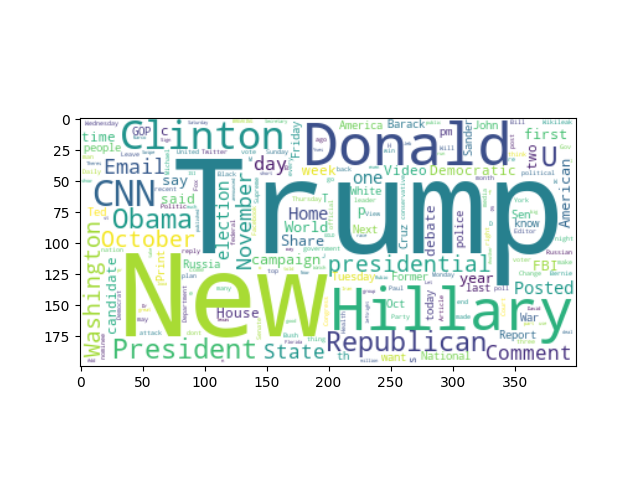
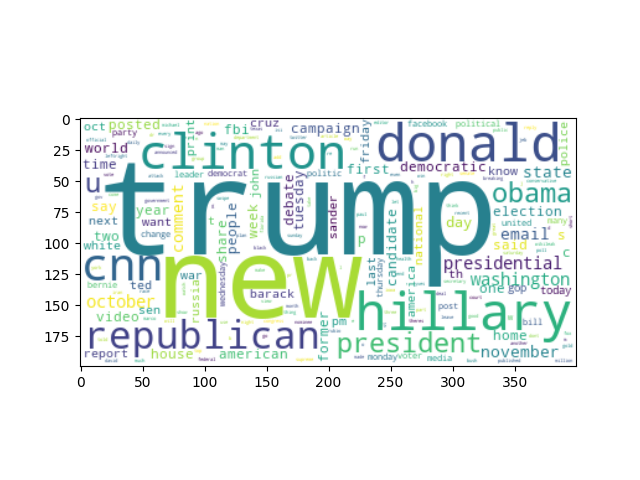
data clean finished

Changed region(s): [[0.125, 0.25, 0.9062, 0.7812]]

diff --git a/Project3_part2.py b/Project3_part2.py
@@ -1,6 +1,4 @@
 import re
-
-import nltk
 import numpy as np
 import pandas as pd
 from nltk.corpus import stopwords
@@ -12,37 +10,9 @@ from sklearn.metrics import accuracy_score, confusion_matrix
 from wordcloud import WordCloud
 
 
-def main():
-    # 数据读取
-    df = pd.read_csv('Project_Data/news.csv')
-    print(df.head().to_string())
-    # 数据清洗
-    df = data_clean(df)
-    # 取label列
-    labels = df.label
-    print(df.head().to_string())
-    print(df['text'].head().to_string())
-    # 清洗后的数据生成词云
-    word_cloud(df['text'].to_string())
-    # 数据集划分
-    x_train, x_test, y_train, y_test = train_test_split(df['text'], labels, test_size=0.2, random_state=7)
-    # 原始数据转TF-IDF
-    tfidf_vectorizer = TfidfVectorizer(stop_words='english', max_df=0.7)
-    tfidf_train = tfidf_vectorizer.fit_transform(x_train)
-    tfidf_test = tfidf_vectorizer.transform(x_test)
-    # 用TF-IDF矩阵训练分类器
-    pac = PassiveAggressiveClassifier(max_iter=50)
-    pac.fit(tfidf_train, y_train)
-    # 用分类器进行预测，并得到预测精准度
-    y_pred = pac.predict(tfidf_test)
-    score = accuracy_score(y_test, y_pred)
-    print(f'Accuracy: {round(score * 100, 2)}%')
-    # 得到混淆矩阵
-    print('Confusion Matrix: ', confusion_matrix(y_test, y_pred, labels=['FAKE', 'REAL']))
-
-
 # 数据清洗
 def data_clean(df):
+    print('===> Data cleaning...')
     # 删除空列
     df = df.dropna()
     # 根据text列进行去重
@@ -56,6 +26,7 @@ def data_clean(df):
     # 去除停用词
     stop_word = stopwords.words('english')
     df['text'] = df['text'].apply(lambda x: ' '.join([word for word in x.split() if word not in (stop_word)]))
+    print('===> Data cleaning finished!')
     return df
 
 
@@ -64,6 +35,33 @@ def word_cloud(data):
     plt.imshow(WordCloud(collocations=False, background_color='white', random_state=5726).generate(data),
                interpolation='bilinear')
     plt.savefig('news_word_cloud.png')
+    print('===> Word cloud generated path: /news_word_cloud.png')
+
+
+def main():
+    # 数据读取
+    df = pd.read_csv('Project_Data/news.csv')
+    # 数据清洗
+    df = data_clean(df)
+    # 取label列
+    labels = df.label
+    # 清洗后的数据生成词云
+    word_cloud(df['text'].to_string().lower())
+    # 数据集划分
+    x_train, x_test, y_train, y_test = train_test_split(df['text'], labels, test_size=0.2, random_state=7)
+    # 原始数据转TF-IDF
+    tfidf_vectorizer = TfidfVectorizer(stop_words='english', max_df=0.7)
+    tfidf_train = tfidf_vectorizer.fit_transform(x_train)
+    tfidf_test = tfidf_vectorizer.transform(x_test)
+    # 用TF-IDF矩阵训练分类器
+    pac = PassiveAggressiveClassifier(max_iter=50)
+    pac.fit(tfidf_train, y_train)
+    # 用分类器进行预测，并得到预测精准度
+    y_pred = pac.predict(tfidf_test)
+    score = accuracy_score(y_test, y_pred)
+    print(f'===> Accuracy: {round(score * 100, 2)}%')
+    # 得到混淆矩阵
+    print('====> Confusion Matrix: ', confusion_matrix(y_test, y_pred, labels=['FAKE', 'REAL']))
 
 
 if __name__ == '__main__':
